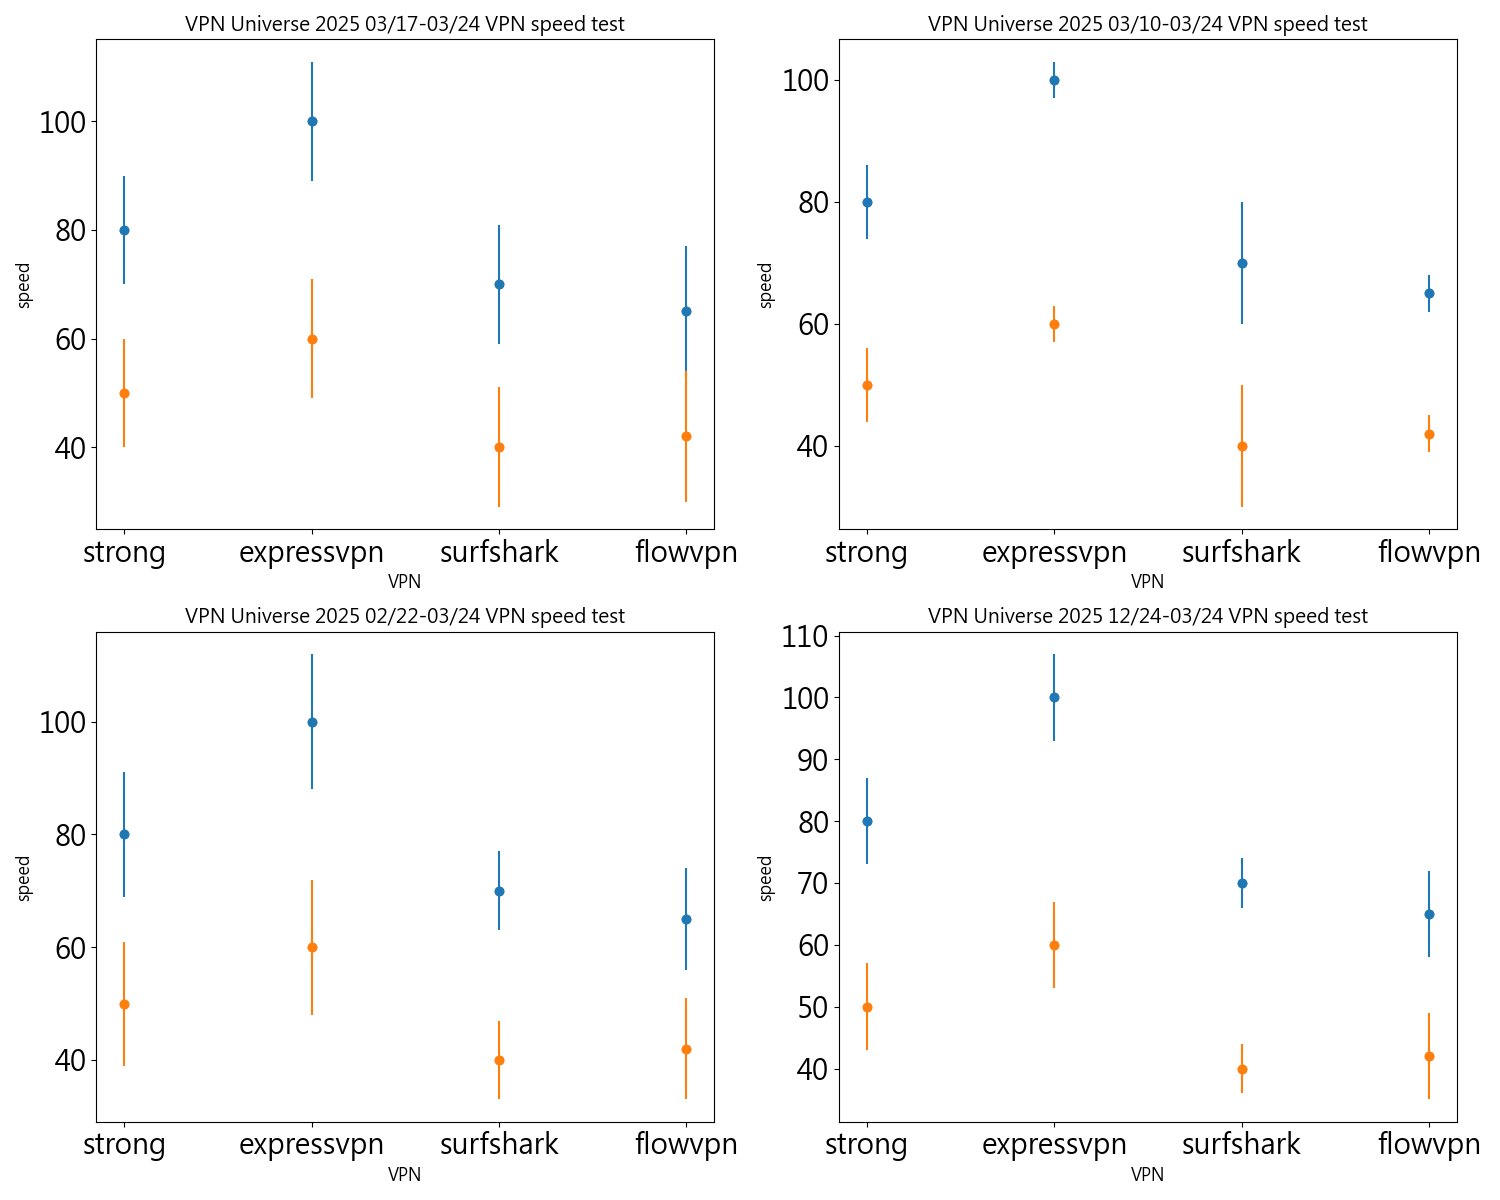
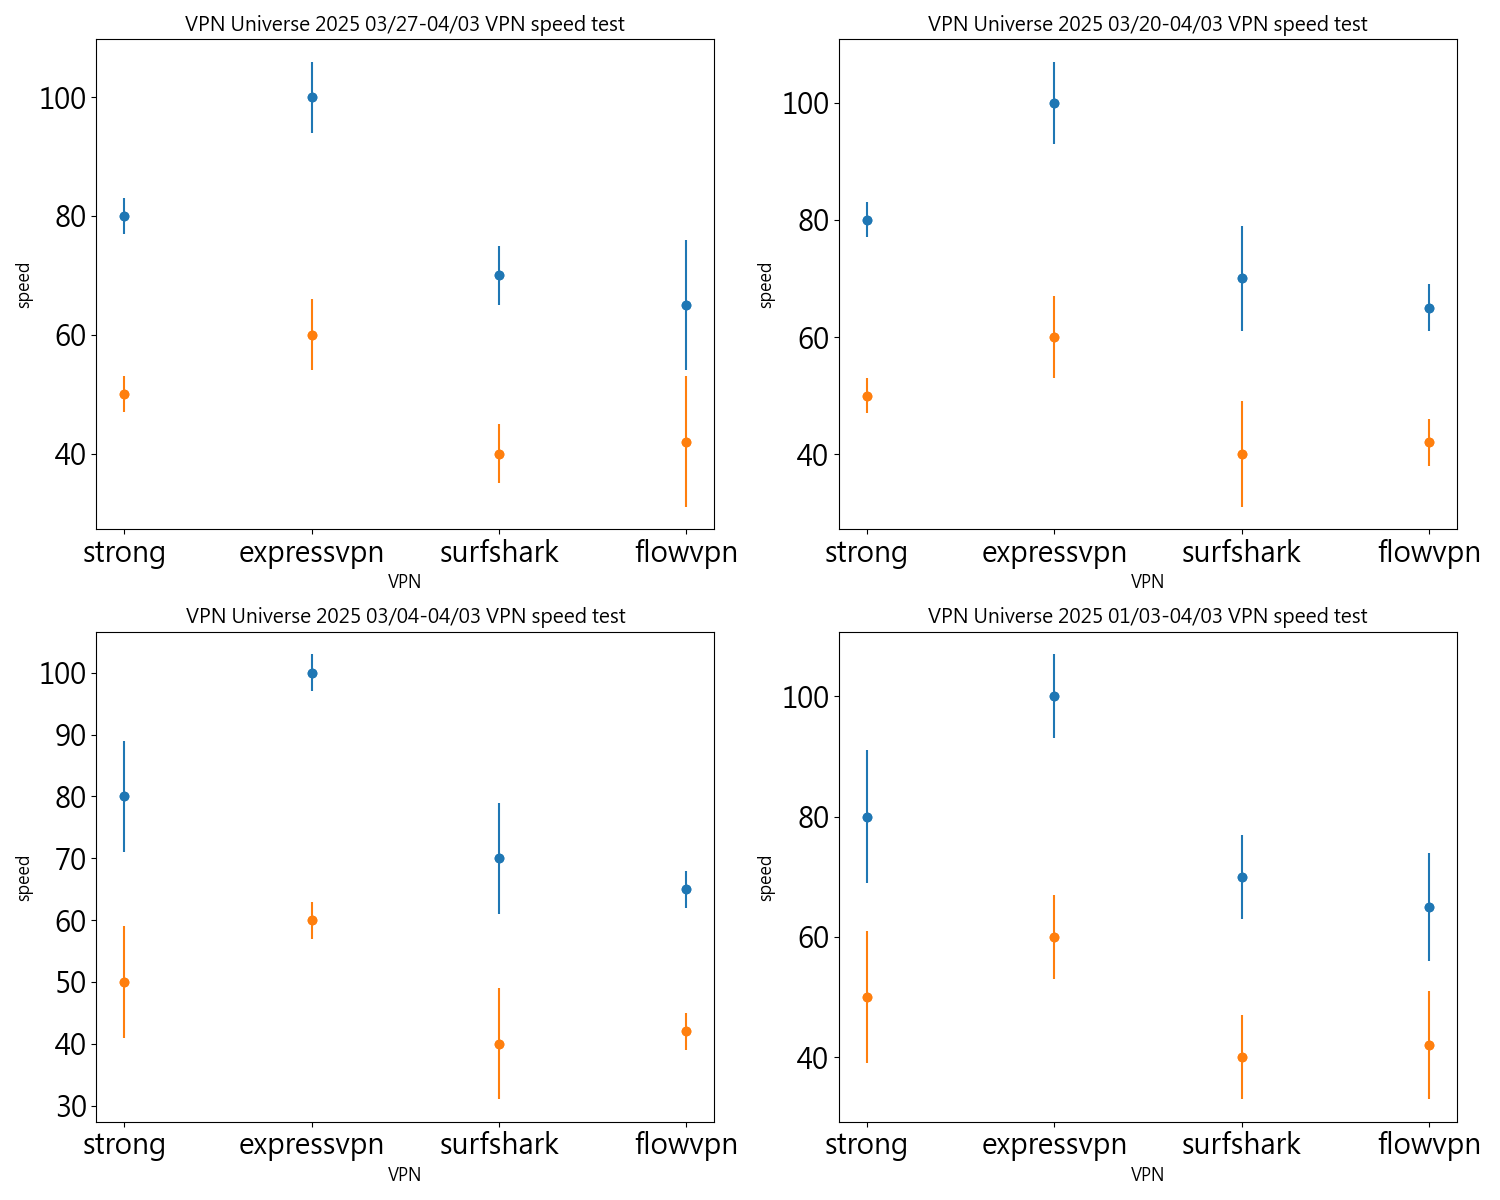
update vpn speed test

diff --git a/README.md b/README.md
@@ -1,4 +1,4 @@
-# Best VPNs for India - Comprehensive Recommendations (Updated: March 24, 2025)
+# Best VPNs for India - Comprehensive Recommendations (Updated: April 03, 2025)
 
 ## If you enjoy this guide, consider starring this repository and sharing it with others to help spread awareness about internet privacy and freedom. Let's work together for a more secure and open web!
 

diff --git a/index.md b/index.md
@@ -1,4 +1,4 @@
-# Best VPNs for India - Comprehensive Recommendations (Updated: March 24, 2025)
+# Best VPNs for India - Comprehensive Recommendations (Updated: April 03, 2025)
 
 ## If you enjoy this guide, consider starring this repository and sharing it with others to help spread awareness about internet privacy and freedom. Let's work together for a more secure and open web!
 
